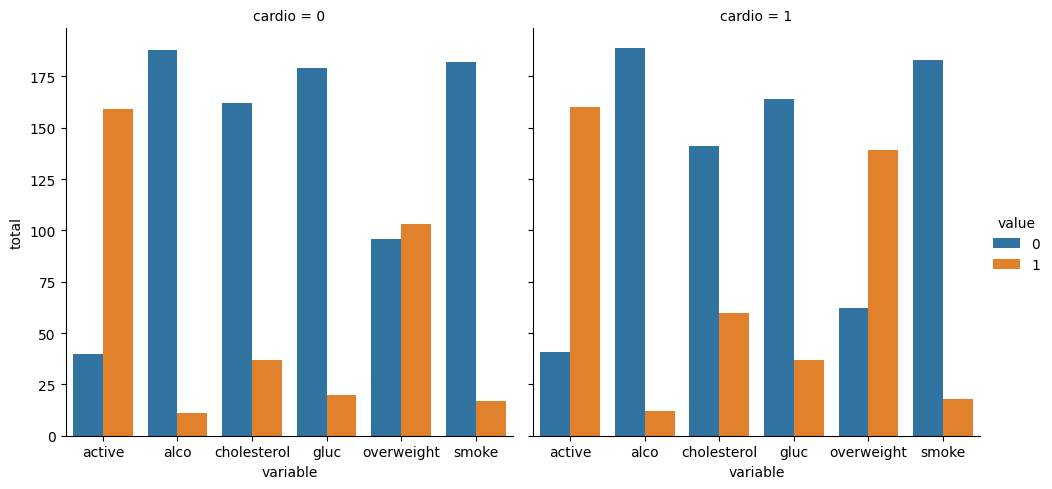
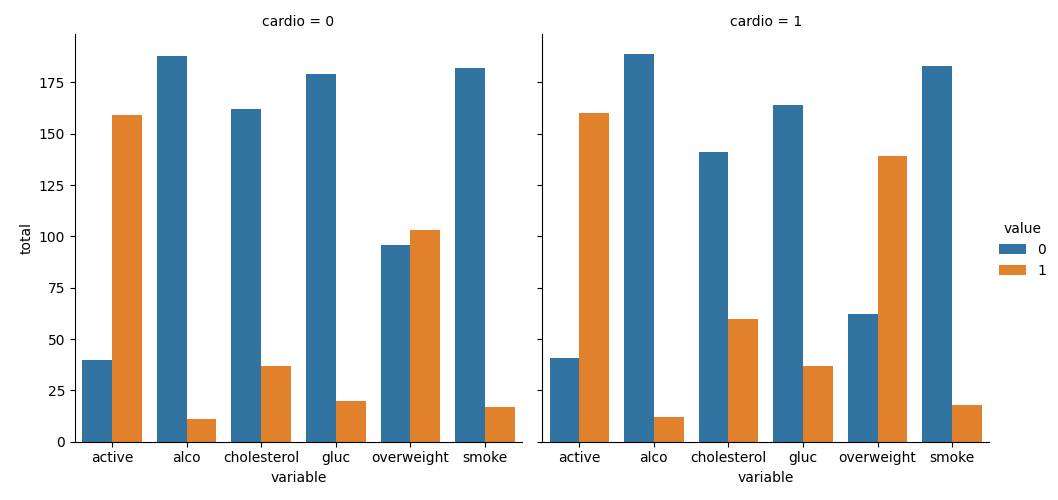
complete assignment

diff --git a/medical-data-visualizer/main.py b/medical-data-visualizer/main.py
@@ -3,35 +3,39 @@ import seaborn as sns
 import matplotlib.pyplot as plt
 import numpy as np
 
+# Import data
 df = pd.read_csv('medical_examination.csv')
 
+# Add 'overweight' column
 # BMI = weight / height ^ 2 = kg / m ^ 2
 # height is in centimeters
-df['overweight'] = df['weight'] / (df['height'] / 100) ** 2 > 25
+# Normalize False and True to 0 and 1; technically unnecessary as booleans are interpreted with the corresponding integer values
+df['overweight'] = (df['weight'] / (df['height'] / 100) **
+                    2 > 25).replace({True: 1, False: 0})
 
-# map False to 0, map True to 1 (superfluous since booleans are interpreted with the corresponding integer values)
-df['overweight'] = df['overweight'].replace({True: 1, False: 0})
-
-# map 1 to 0, map greater than 1 to 1
+# Normalize data by making 0 always good and 1 always bad. If the value of 'cholesterol' or 'gluc' is 1, make the value 0. If the value is more than 1, make the value 1.
 df[['cholesterol', 'gluc']] = df[['cholesterol', 'gluc']].astype(
     str).replace({'1': 0, '[2-9]': 1}, regex=True)
 
 
 def draw_cat_plot():
-    # long format studying the 'active', 'alco', 'cholesterol', 'gluc', 'overweight', 'smoke' columns per the 'cardio' value
+    # Create DataFrame for cat plot using `pd.melt` using just the values from 'cholesterol', 'gluc', 'smoke', 'alco', 'active', and 'overweight'.
     df_cat = pd.melt(df, id_vars=['cardio'], value_vars=[
                      'active', 'alco', 'cholesterol', 'gluc', 'overweight', 'smoke'])
 
-    fig = sns.catplot(data=df_cat, kind='count',
-                      col='cardio', x='variable', hue='value')
-    fig.set(ylabel='total')
+    # Draw the catplot with 'sns.catplot()'
+    # .set(ylabel) and .fig necessary to pass the unit tests @freecodecamp
+    # technically catplot returns a FacetGrid comopsed of the figure
+    fig = sns.catplot(data=df_cat, kind='count', col='cardio',
+                      x='variable', hue='value').set(ylabel='total').fig
 
+    # Do not modify the next two lines
     fig.savefig('catplot.png')
     return fig
 
 
 def draw_heat_map():
-    # drop invalid data following the specs
+    # Clean the data
     df_heat = df.drop(df[
         (df['ap_lo'] > df['ap_hi']) |
         (df['height'] < df['height'].quantile(0.025)) |
@@ -40,16 +44,21 @@ def draw_heat_map():
         (df['weight'] > df['weight'].quantile(0.975))
     ].index)
 
+    # Calculate the correlation matrix
     corr = df_heat.corr()
 
+    # Generate a mask for the upper triangle
     mask = np.zeros_like(corr)
     mask[np.triu_indices_from(mask)] = 1
 
+    # Set up the matplotlib figure
     fig, ax = plt.subplots(figsize=(9, 8))
 
+    # Draw the heatmap with 'sns.heatmap()'
     sns.heatmap(corr, annot=True, annot_kws={
                 'fontsize': 'small'}, fmt='.1f', mask=mask, linewidths=0.5, cbar_kws={'shrink': 0.5}, square=True)
 
+    # Do not modify the next two lines
     fig.savefig('heatmap.png')
     return fig
 
